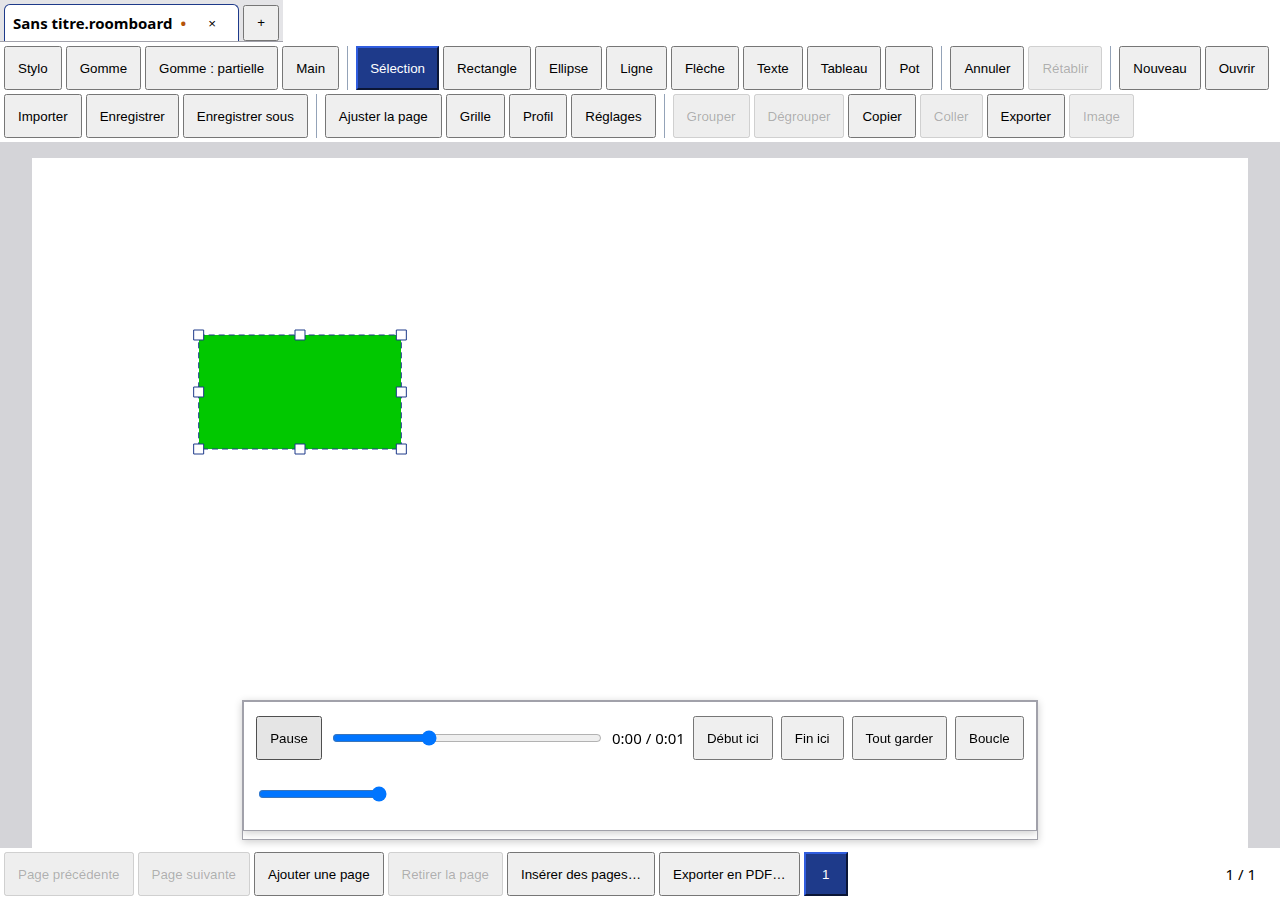
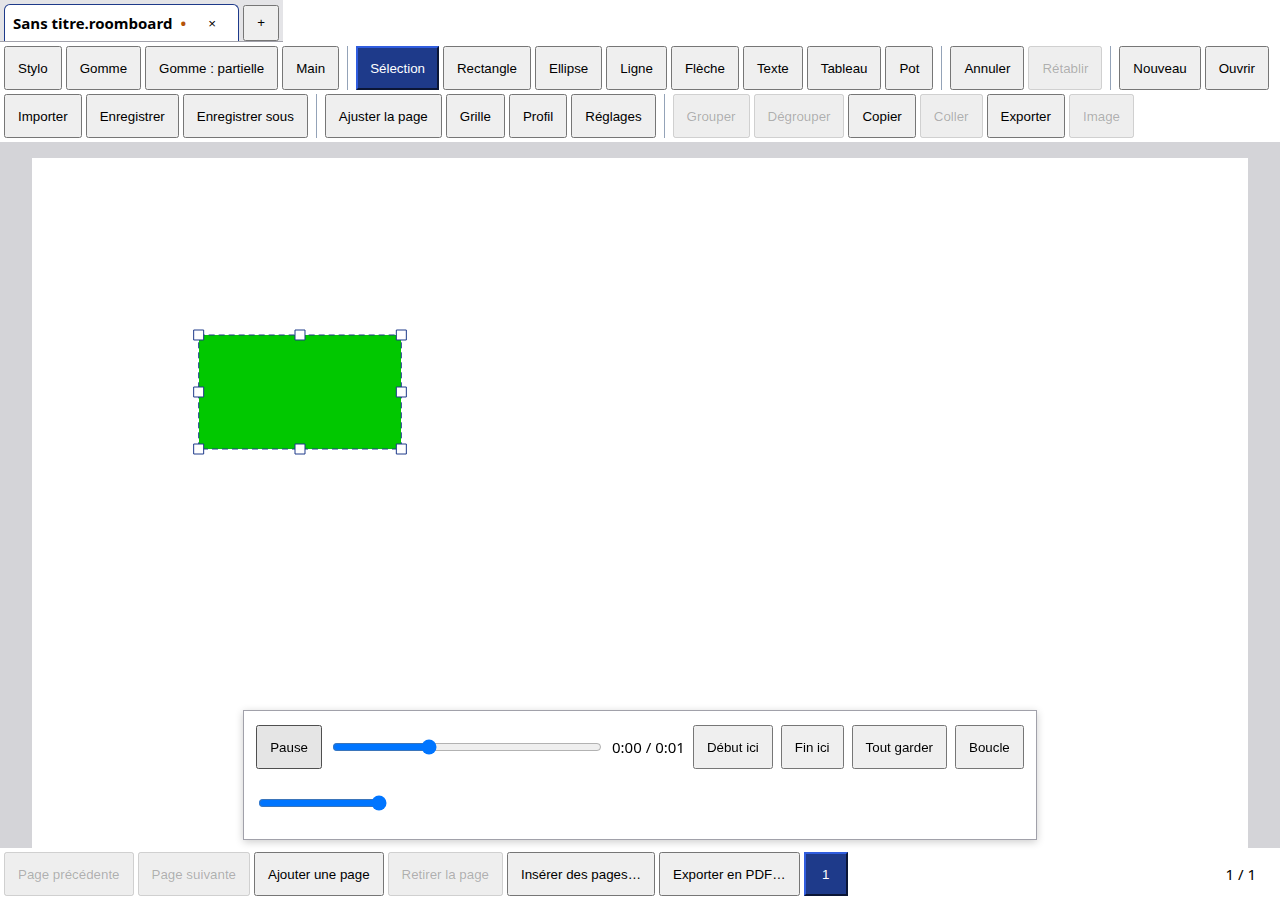
docs(state): usage C14 media report and capture

Changed region(s): [[0.1875, 0.7778, 0.8125, 0.9333]]

diff --git a/docs/sessions/usage-c14-media-etat.md b/docs/sessions/usage-c14-media-etat.md
@@ -1,13 +1,12 @@
 # État — usage-c14-media
 
-Statut : en cours
-Étage : 3 — depuis 2026-11-20 19:27
-Vague : 2 (T7-T10) — depuis 2026-11-20 20:17
+Statut : clôture (PR à fusionner)
+Étage : 4 — depuis 2026-11-20 21:27
 Gabarit : chantier (11 tâches, un lot)
 Objectif : Une vidéo ou un son déposé devient un élément `media` sur la page montrée : lecture dans la page avec les commandes RoomBoard, rognage du début et de la fin, boucle et volume ; inclus dans le `.roomboard` jusqu'à 50 Mo, lié en coque au-delà, refusé sur le web au-delà de 100 Mo.
-Avancement : 6/11 tâches terminées
+Avancement : 13/13 tâches terminées
 Questions à Jérôme : —
-Worktree : /home/adminjd/projets/roomboard-wt/usage-c14-media   Branche : feat/usage-c14-media   Base : origin/main @ 9549785
+Worktree : /home/adminjd/projets/roomboard-wt/usage-c14-media   Branche : feat/usage-c14-media   Base : origin/main @ 9549785, puis origin/main @ d4596f7 (C5) fusionné en a2d11ff
 Branche principale locale au lancement : 9549785
 Cadrage : docs/plans/usage-c14-media-cadrage.md   Plan(s) : docs/plans/usage-c14-media-PLAN.md
 Mode : autonome (ouvrier CLI OD87, aucune question à Jérôme : choix tranchés seuls et écrits)
@@ -16,7 +15,7 @@ Mode : autonome (ouvrier CLI OD87, aucune question à Jérôme : choix tranchés
 Complète (origin/main @ 9549785, verifier.sh --e2e) : OK · module principal 1 084 202 o · formats 3 092 294 o · scène pot 706 px
 
 ## Compteurs
-contre-relecture cadrage 0/2 (fondue dans la relecture du plan, voir choix) · relecture plan 1/3 (1 bloquant R1 + 9 corrections, portées par T7-T11 : docs/plans/usage-c14-media-relecture-plan.md) · vagues sans progrès 0/2
+contre-relecture cadrage 0/2 (fondue dans la relecture du plan, voir choix) · relecture plan 1/3 (1 bloquant R1 + 9 corrections, portées par T7-T11 : docs/plans/usage-c14-media-relecture-plan.md) · vagues sans progrès 0/2 · double relecture 4 relecteurs (conformité A/B, qualité A/B) : 0 bloquant, 7 major · correctifs de fin 2/2 (T12, T13)
 
 ## Tâches
 Table complète : docs/plans/usage-c14-media-PLAN.md (745c669, 11 tâches, 31 lignes Réutilise ; V1 T1-T6, V2 T7-T10, V3 T11).
@@ -29,10 +28,16 @@ Table complète : docs/plans/usage-c14-media-PLAN.md (745c669, 11 tâches, 31 li
 | T5 lecteurs | terminée | 1/3 | b86f04b | 79/79 (lecteurs C14 15), tsc 0 |
 | T6 barre | terminée | 1/3 | 1b818d0 | src/ui 184/184 (MediaBar 9) |
 | fusion vague 1 | — | — | 6546a15 | web 2 041/2 041, tsc 0 |
-| T7 rendu | en cours | 1/3 | — | — |
-| T8 import | en cours | 1/3 | — | — |
-| T9 session+barre | en cours | 1/3 | — | — |
-| T10 persistance | en cours | 1/3 | — | — |
+| fusion origin/main (C5) | terminée | — | a2d11ff | cargo 561/0, web 2 148/2 148, tsc 0, wasm 1 119 330 o, formats 3 099 350 o |
+| T7 rendu | terminée | 1/3 | e1d9349 | src/engine 669/669 (C14 8) ; conflit C5 résolu en 5bb6e13 |
+| T8 import | terminée | 1/3 | c9134c2 | 102/102 (C14 27, R1 R3 R4 R5) |
+| T9 session+barre | terminée | 1/3 | 064deff | src/ui+app 493/493 (C14 16) ; conflit C5 résolu en 988bd70 |
+| T10 persistance | terminée | 1/3 | 492dea2 | src/app 308/308 (C14 15, R1 R2 R9) |
+| T11 essai e2e | terminée | 1/3 | 2e17d28 | essai C14 : OK ; scène 706 px ; capture |
+| vérification 1 | — | — | aad3b53 | verifier.sh --e2e OK |
+| T12 correctifs relecture | terminée | 1/3 | 99c6021 | web 2 210/2 210, hors-ligne 24 cas |
+| T13 correctifs tour 2 | terminée | 1/3 | 6100b6b | web 2 213/2 213, tsc 0 |
+| vérification 2 | — | — | 28ecaa1 | verifier.sh --e2e OK (C14 média : OK), cargo 0 échec, web 2 213/2 213, principal 1 119 330 o, formats 3 099 350 o, scène 706 px |
 
 ## Choix tranchés seul
 - Contre-relecture du cadrage fondue dans une relecture plan + cadrage, lancée en parallèle de la vague 1 (borne de 4 h) ; ses constats corrigent T7-T11 ou passent en correctifs.
@@ -46,6 +51,15 @@ Table complète : docs/plans/usage-c14-media-PLAN.md (745c669, 11 tâches, 31 li
 - `scripts/licences-acceptees.json` : 2 exceptions ajoutées par T2 (`roomboard-shell`, crate du dépôt ; `target-lexicon`, Apache-2.0 WITH LLVM-exception, permissive) : `controle-licences.mjs` échouait déjà sur la base lancé seul.
 - `fake-core.test.ts` touché hors liste par T1 (une ligne `media:`), nécessaire au test I3.
 
+## Captures
+`docs/essais/c14-media-lecture.png` : vidéo WebM générée (rectangle vert) sélectionnée et en lecture sur la page ; barre du média flottante en bas (Pause, position, Début ici, Fin ici, Tout garder, Boucle, volume) ; barres d'outils et de pages autour, scène 706 px.
+
+## Hors périmètre / restes
+- Essai réel en coque (Tauri non construit) : vidéo liée > 50 Mo, protocole d'assets, `link_media`/`relink_media` (H1-7, H1-4).
+- MP4/H.264 (S16 parent, 20 Mo) non joué : Chromium Linux sans H.264, WebM à la place.
+- Minors non corrigés : `write_asset_meta` dupliqué par `insert_media_asset_meta` (simplification) ; ordre BadMedia/BadAsset du vrai module ≠ fausse liaison pour une entrée que TS interdit ; hachage synchrone dans `link_media` ; `MEDIA_EXTENSIONS` Rust/TS sans test de parité ; `relink_media` accorde sans consentement un chemin de média de taille connue (conforme M29) ; « Insérer les pages » : relink inutile avant `dropLinked`, deux avis sur le web ; `aria-valuetext` absent du curseur de position ; description de `capabilities/default.json` non complétée ; peintres d'export sans test de câblage dans `main.ts`.
+- Compatibilité inverse : une version d'avant C14 compte un asset lié comme absent et refuse d'enregistrer (R30).
+
 ## Pièges trouvés
 - Trois agents (T1, T3, T5) attendaient une commande de fond finie sans être réveillés (≈ 30 min perdues) : relancés par message.
 - Prémisses démenties (cadreur) : pas de `apps/web/src/import/` (registre dans `platform/import.ts`) ; CSP : `controle-hors-ligne.mjs` refuse `asset:`, feature `protocol-asset` + `Cargo.lock` de la coque ; vidéo liée bloquerait l'enregistrement (`missingOf`, R30) ; empreinte de 300 Mo calculée par la coque ; `FileHost.save` doit recevoir la cible ; WebM de MediaRecorder a une durée `Infinity`.
@@ -54,3 +68,55 @@ Table complète : docs/plans/usage-c14-media-PLAN.md (745c669, 11 tâches, 31 li
 
 ## Portes
 ouvertes : — · passées : —
+
+## Notes du coffre à poser
+
+### 1. `00_Journal/2026-11-20-roomboard-usage-c14-media-clos.md`
+
+```markdown
+---
+id: 2026-11-20-roomboard-usage-c14-media-clos
+type: journal
+summary: "RoomBoard usage C14 vidéo et son clos : élément media (rognage, boucle, volume, une étape par réglage), lecture dans le canvas, inclus jusqu'à 50 Mo, lié en coque au-delà, refus web > 100 Mo, MKV/AVI refusés ; PR __PR__ fusionnée."
+created: 2026-11-20
+project: "[[roomboard]]"
+tags: [projet/roomboard, chaine/nouvelle-feature]
+evidence: "docs/sessions/usage-c14-media-etat.md (dépôt jejeasterix/roomboard)"
+---
+
+# RoomBoard — usage C14 vidéo et son, clos (OD87)
+
+- 13 tâches (11 du plan, 2 de correctifs), 3 vagues ; `origin/main` (C5) intégré en cours de route par fusion.
+- Élément `media` du cœur (U37) ; importeur navigateur par octets magiques ; lecteurs `<video>`/`<audio>` hors du cœur, image dessinée dans le canvas ; barre flottante (scène 706 px).
+- Vidéo liée en coque : empreinte calculée en Rust, chemin relatif écrit à l'enregistrement, CSP `media-src 'self' blob: asset: http://asset.localhost`, protocole d'assets à portée vide. Non construit (aucun build Tauri) : essai réel en coque à faire.
+- Essai e2e : WebM (MediaRecorder) et WAV générés dans la page, Chromium Linux sans H.264.
+- Tailles : module principal 1 119 330 o (plafond 1 572 864), formats 3 099 350 o (inchangé par C14).
+- Décision : [[NNNN-roomboard-media-lie-en-coque-lecteurs-hors-coeur]].
+```
+
+### 2. `02_Decisions/NNNN-roomboard-media-lie-en-coque-lecteurs-hors-coeur.md`
+
+```markdown
+---
+id: NNNN-roomboard-media-lie-en-coque-lecteurs-hors-coeur
+type: decision
+summary: "RoomBoard : un média est un élément media du cœur (réglages d'un bloc, une étape par réglage), lu par des lecteurs de la page hors du cœur et dessiné dans le canvas ; au-delà de 50 Mo en coque il est lié (empreinte Rust, chemin relatif, protocole d'assets) ; prise par l'agent."
+created: 2026-11-20
+status: actif
+project: "[[roomboard]]"
+tags: [projet/roomboard, decision/architecture]
+evidence: "docs/plans/usage-c14-media-cadrage.md § DAM1 à DAM5, dépôt jejeasterix/roomboard"
+---
+
+# RoomBoard — médias : lecteurs hors du cœur, vidéo liée en coque (prise par l'agent)
+
+- DAM1 : `kind: "media"` dans le cœur ; `SetMedia` remplace les réglages d'un bloc, une étape d'annulation par réglage, valeurs neutres retirées.
+- DAM2 : vidéo liée en coque seulement : empreinte calculée par la coque en Rust (Web Crypto n'est pas incrémental), reconnue à la réouverture par sa taille, chemin relatif réécrit hors historique à l'enregistrement.
+- DAM3 : lecteurs `<video>`/`<audio>` par onglet, créés au premier geste, port `MediaFrames` en lecture seule pour le rendu ; poster tant que non lancé.
+- DAM4 : branche « lien » dans `importFiles`, avant toute lecture du fichier.
+- DAM5 : barre de commandes flottante, aucune rangée permanente (scène ≥ 640 px).
+```
+
+### 3. Fiche `01_Projets/roomboard.md`, ligne « Vague 2 en cours »
+
+Remplacer « C5 édition d'image en cours. » par : « C5 édition d'image clos ; C14 vidéo et son (élément media, lecture dans le canvas, lien en coque) clos (PR __PR__, `main` __MAIN__) — voir [[2026-11-20-roomboard-usage-c14-media-clos]] et [[NNNN-roomboard-media-lie-en-coque-lecteurs-hors-coeur]]. »
